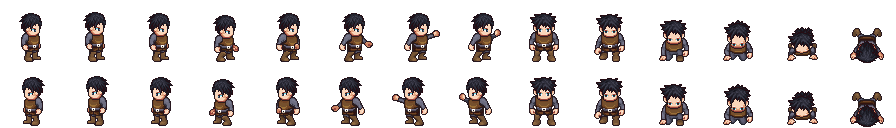
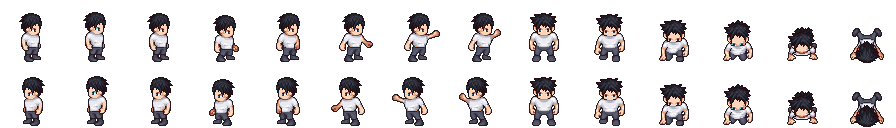
Grid montre son équipement : T-shirt blanc au départ, armure portée, armes dans le dos
- Grid commence en T-shirt blanc et pantalon noir.
- Le plastron équipé se dessine sur lui aux couleurs de son matériau ;
  le bouclier se porte au bras.
- En expédition, les armes équipées qu'il ne tient pas sont dans son dos ;
  dans l'atelier, elles sont accrochées au mur derrière lui.

diff --git a/tools/build_lpc.py b/tools/build_lpc.py
@@ -54,11 +54,16 @@ BLOND = ((120, 80, 20), (255, 230, 130))
 HUMAN = ["body/bodies/male", "head/heads/human/male"]
 
 # name: list of layers, bottom first. A layer is a path, or (path, ramp).
+# Every sheet has the same frames, so one can be drawn over another.
 CHARACTERS = {
+    # Grid as at the start of the story: white T-shirt, black trousers.
     "grid": HUMAN + [
-        ("legs/pants/male", BLACK), ("feet/boots/basic/male", BROWN),
-        ("torso/clothes/longsleeve/longsleeve/male", CHARCOAL), "torso/armour/leather/male",
+        ("legs/pants/male", BLACK), ("feet/shoes/basic/male", BLACK),
+        ("torso/clothes/shortsleeve/tshirt/male", WHITE),
         ("hair/messy1/adult", BLACK)],
+    # Not a character: the armour alone, drawn over Grid when he wears a breastplate.
+    # It stays grey so that the game can give it the colours of its material.
+    "armor_plate": ["torso/armour/plate/male", "arms/armour/plate/male"],
     # Kesan Canyon
     "goblin": [("body/bodies/male", GREEN_SKIN), ("head/heads/goblin/adult", GREEN_SKIN),
         ("legs/pants/male", BROWN)],

diff --git a/CREDITS-LPC.md b/CREDITS-LPC.md
@@ -71,6 +71,14 @@ Fichier généré : ne pas le modifier à la main.
 - https://opengameart.org/content/lpc-clothes-and-hair
 - https://opengameart.org/content/lpc-expanded-socks-shoes
 
+## `feet/shoes/basic/male`
+
+- Auteurs : JaidynReiman,bluecarrot16,Johannes Sjölund (wulax)
+- Licences : OGA-BY 3.0,CC-BY-SA 3.0,GPL 3.0
+- https://opengameart.org/content/lpc-medieval-fantasy-character-sprites
+- http://opengameart.org/content/lpc-clothing-updates
+- https://opengameart.org/content/lpc-expanded-socks-shoes
+
 ## `hair/long/adult`, `hair/messy1/adult`
 
 - Auteurs : JaidynReiman,Manuel Riecke (MrBeast)
@@ -196,6 +204,15 @@ Fichier généré : ne pas le modifier à la main.
 - Licences : OGA-BY 3.0,CC-BY-SA 3.0,GPL 3.0
 - https://opengameart.org/content/lpc-medieval-fantasy-character-sprites
 - http://opengameart.org/content/lpc-clothing-updates
+- https://opengameart.org/content/lpc-revised-character-basics
+- https://github.com/ElizaWy/LPC/tree/main/Characters/Clothing
+- https://opengameart.org/content/lpc-expanded-sit-run-jump-more
+- https://opengameart.org/content/lpc-expanded-simple-shirts
+
+## `torso/clothes/shortsleeve/tshirt/male`
+
+- Auteurs : ElizaWy,JaidynReiman,Stephen Challener (Redshrike),Johannes Sjölund (wulax)
+- Licences : OGA-BY 3.0
 - https://opengameart.org/content/lpc-revised-character-basics
 - https://github.com/ElizaWy/LPC/tree/main/Characters/Clothing
 - https://opengameart.org/content/lpc-expanded-sit-run-jump-more

diff --git a/README.md b/README.md
@@ -57,7 +57,7 @@ Chaque ennemi battu laisse un matériau, meilleur à mesure qu'on avance. Après
 
 Si Grid est battu, le butin porté est perdu. Chaque boss battu donne un nouveau plan (lance, bouclier, hache, plastron, marteau, faux), gardé quoi qu'il arrive, et permet de repartir directement de l'étape suivante.
 
-**Armes.** Équipe trois armes et une armure, fonds le reste pour récupérer un peu de matériau. Sans arme, Grid se bat avec son marteau de forge : on n'est jamais bloqué.
+**Armes.** Équipe trois armes et une armure, fonds le reste pour récupérer un peu de matériau. Ce que Grid équipe se voit sur lui : il commence en T-shirt blanc, porte le plastron ou le bouclier forgé (aux couleurs de son matériau), garde ses deux autres armes dans le dos en expédition, et les accroche au mur de l'atelier. Sans arme, Grid se bat avec son marteau de forge : on n'est jamais bloqué.
 
 **Album.** Une case par plan et par matériau (48), avec la meilleure rareté forgée.
 
